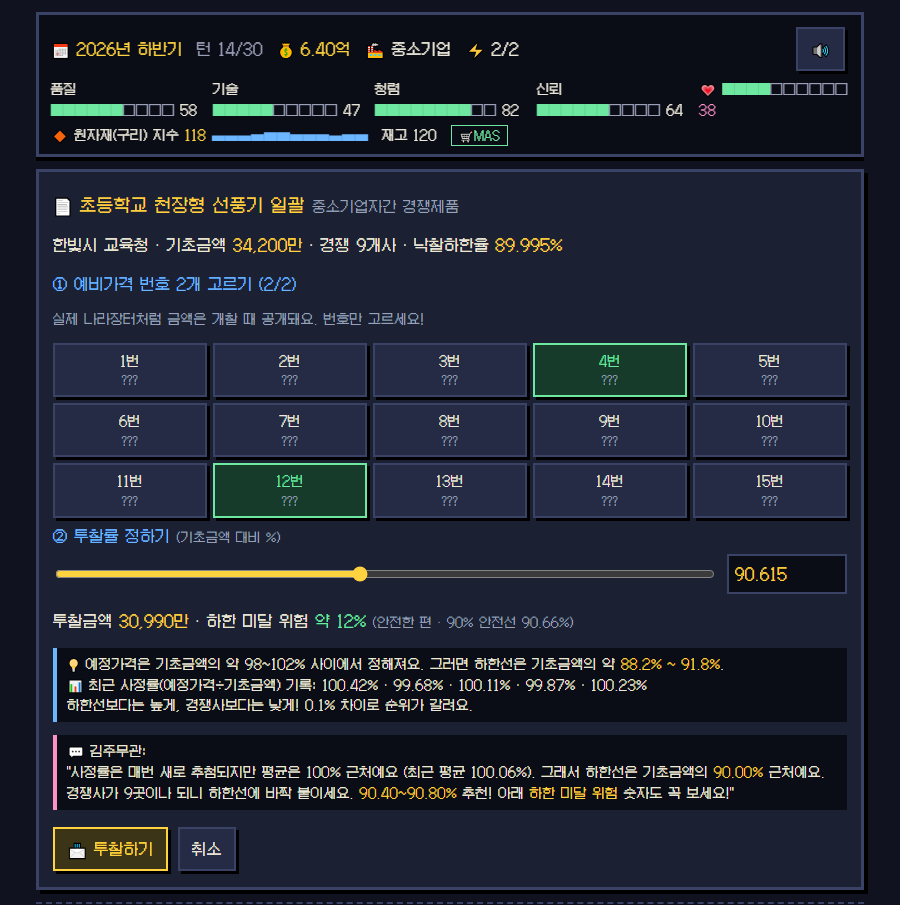
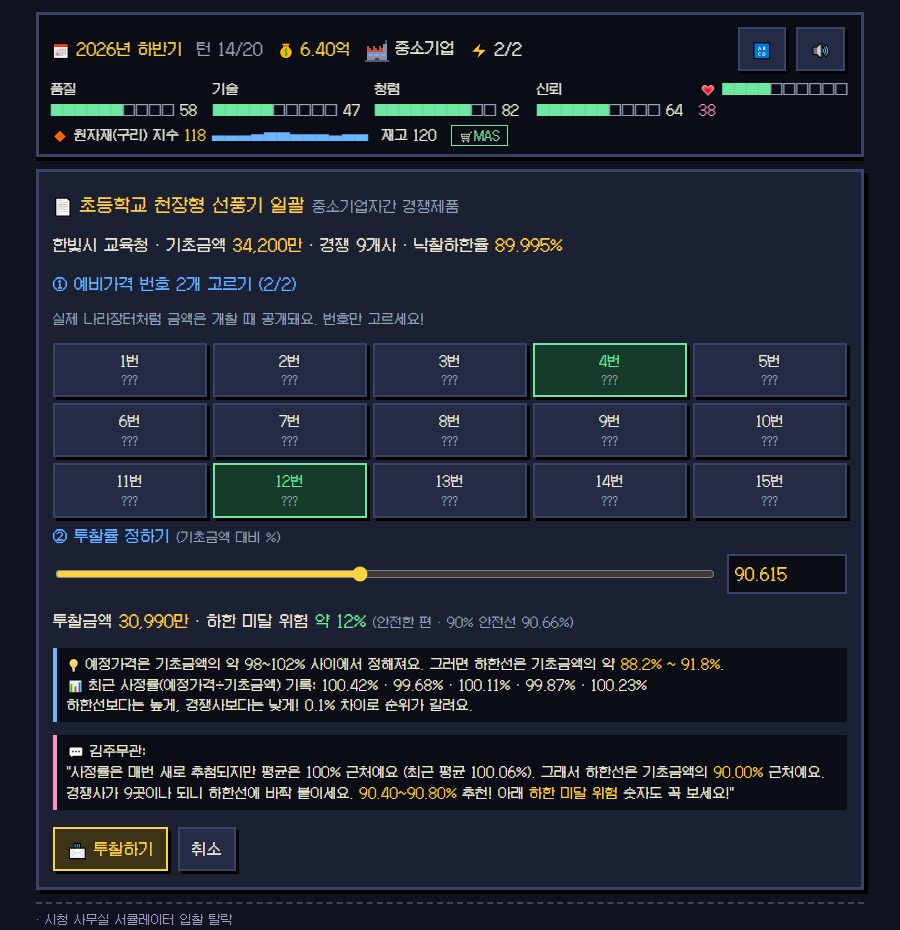
Refresh README screenshots; add recording-scene page generator
tools/make-record.js builds tools/record.html (gitignored): number keys jump to demo scenes for the submission video.

Changed region(s): [[0.0311, 0.0, 0.9644, 1.0], [0.2178, 0.0309, 0.28, 0.0619]]

diff --git a/tools/make-record.js b/tools/make-record.js
@@ -1,0 +1,34 @@
+// 시연 영상 녹화용 페이지 생성: node tools/make-record.js → tools/record.html
+// 숫자키로 장면을 바로 띄운다. 제출 ZIP·Pages에는 들어가지 않는다.
+const fs = require('fs'), path = require('path');
+const src = fs.readFileSync(path.join(__dirname, '..', 'index.html'), 'utf8');
+const scenes = `
+// ---------- 녹화용 장면 ----------
+const DEMO=true;
+try{localStorage.removeItem('pps_save')}catch(e){}
+function demoState(){newGame('시원공방');Object.assign(S,{turn:12,cash:6.4,q:62,t:55,integ:84,rep:66,aff:30,spark:true,affStage:1,tier:1,tierMax:1,wins:8,total:24,stock:150,mas:true,dpc:true,mat:112,matHist:[100,96,104,125,150,141,128,122,117,112,108,112],sajung:[1.0042,.9968,1.0011,.9987,1.0023],lastOffer:12,talks:5});
+ S.log=['초등학교 천장형 선풍기 일괄 계약 3.21억 → 순이익 0.52억','🛠 품질관리 완료'];
+ S.notices=[{type:'sme',item:'초등학교 천장형 선풍기 일괄',ag:'한빛시 교육청',base:3.42,comp:9},{type:'general',item:'국립대 강의실 실링팬',ag:'은하구 국립대학교',base:8.7,comp:11},{type:'sme',item:'무더위쉼터 선풍기',ag:'솔내군 시청',base:1.85,comp:6}]}
+// 투찰하면 하한선에 칼같이 붙여 낙찰되는 결과가 나올 때까지 다시 추첨 (녹화용)
+const realResolve=resolveBid;
+resolveBid=function(collude){if(collude)return realResolve(collude);const snap=JSON.stringify(S),c0=JSON.stringify(S.cur);
+ for(let k=0;k<400;k++){S=JSON.parse(snap);S.cur=JSON.parse(c0);const w=S.wins;realResolve(false);
+  const sj=S.sajung[S.sajung.length-1],gap=S.cur.rate/100-sj*fr(S.cur.n.type);if(S.wins>w&&gap<=.0005&&gap>=0)return}
+}
+const SC={
+ '1':()=>title(),
+ '2':()=>{demoState();hub()},
+ '3':()=>{demoState();S.cur=null;openBid(0)},
+ '4':()=>{demoState();openBid(0);collusionOffer()},
+ '5':()=>{demoState();S.turn=4;FIXED[4](hub)},
+ '6':()=>{demoState();S.aff=60;S.affStage=1;romanceCheck()},
+ '7':()=>{demoState();S.turn=13;S.halfRev=12;S.rev=[2,10];S.wins=12;S.yearWins0=8;S.yearBest={item:'초등학교 천장형 선풍기 일괄',ag:'한빛시 교육청',price:3.42};S.graceUsed=true;settle()},
+ '8':()=>{demoState();Object.assign(S,{turn:20,tier:3,tierMax:3,ow:3,global:true,cash:84.2,total:284,wins:31,romance:'declared',aff:100,integ:93,collusion:0,polUsed:Object.fromEntries(Object.keys(POL).slice(0,15).map(k=>[k,1]))});finalEnding()},
+ '9':()=>{demoState();Object.assign(S,{turn:20,tier:0,tierMax:1,romance:'declared',aff:100,integ:84,cash:3.1,total:18,wins:9,excellent:false,polUsed:{nara:1,yega:1,sme_priority:1,conflict:1,mas:1}});finalEnding()}};
+document.addEventListener('keydown',e=>{if(e.target.tagName==='INPUT')return;const f=SC[e.key];if(f){e.preventDefault();f()}});
+`;
+const re = /title\(\);\r?\n<\/script>/;
+if (!re.test(src)) throw new Error('index.html 끝부분(title(); </script>)을 찾지 못했어요');
+const out = src.replace('<title>', '<title>[녹화용] ').replace(re, 'title();\n' + scenes + '\n</script>');
+fs.writeFileSync(path.join(__dirname, 'record.html'), out);
+console.log('tools/record.html 생성 완료');
